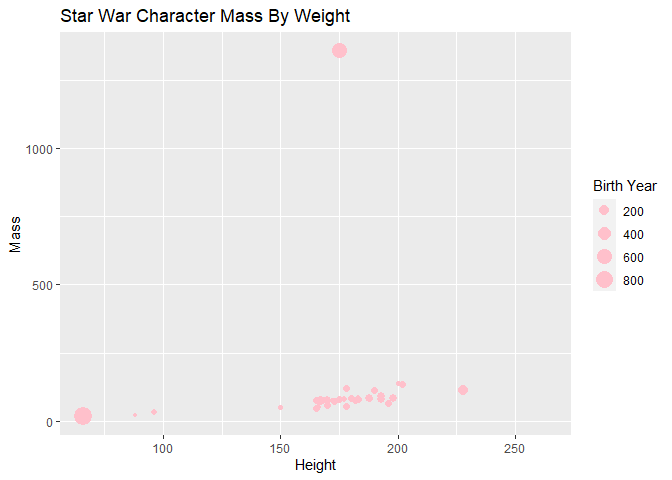
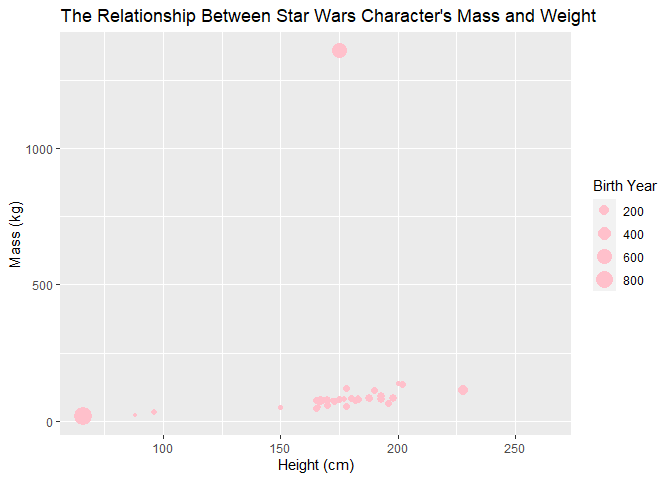
Finished

Changed region(s): [[0.0938, 0.0, 0.9062, 0.0625], [0.4062, 0.9375, 0.5312, 1.0], [0.0, 0.4062, 0.0312, 0.5625]]

diff --git a/starwars.md b/starwars.md
@@ -44,9 +44,9 @@ ggplot(starwars,
        aes(x = height, y = mass, color = gender, size = birth_year)) +
   geom_point(color = "pink") +
   labs(
-    title = "Star War Character Mass By Weight",
-    x = "Height", 
-    y = "Mass",
+    title = "The Relationship Between Star Wars Character's Mass and Weight",
+    x = "Height (cm)", 
+    y = "Mass (kg)",
     size = "Birth Year"
     )
 ```
@@ -65,16 +65,76 @@ or remove the `eval` option altogether since it’s set to `TRUE` by
 default.)
 
 ``` r
-ggplot(starwars, aes(___)) +
-  geom___
+ggplot(starwars, aes(y = eye_color)) +
+  geom_bar()+
+  labs(
+    title = "Star Wars Characters Eye Color Distribution",
+    x = "Frequency",
+    y = "Height (cm)"
+  )
 ```
+
+![](starwars_files/figure-gfm/barplot-1.png)<!-- -->
 
 ### Pick a single numerical variable and make a histogram of it.
 
 (This time no starter code is provided, you’re on your own!)
 
+``` r
+ggplot(starwars, aes(height)) +
+  geom_histogram(binwidth = 10)+
+  labs(
+    title = "Star Wars Character Heights",
+    x = "Height (cm)",
+    y = "Frequency"
+  )
+```
+
+    ## Warning: Removed 6 rows containing non-finite values (stat_bin).
+
+![](starwars_files/figure-gfm/histogram-1.png)<!-- -->
+
 ### Pick a numerical variable and a categorical variable and make a visualisation (you pick the type!) to visualise the relationship between the two variables. Along with your code and output, provide an interpretation of the visualisation.
 
-### Pick two categorical variables and make a visualisation to visualise the relationship between the two variables. Along with your code and output, provide an interpretation of the visualisation.
+``` r
+ggplot(starwars, aes(x = height, fill = gender)) +
+  geom_histogram(binwidth = 10, alpha = 0.5)+
+  labs(
+    title = "The Relationship Star Wars Character Height and Gender",
+    x = "Height (cm)",
+    y = "Frequency"
+  )
+```
+
+    ## Warning: Removed 6 rows containing non-finite values (stat_bin).
+
+![](starwars_files/figure-gfm/num-cat-1.png)<!-- -->
+
+Among taller characters in Star Wars, masculine characters are more
+represented than feminine characters. \### Pick two categorical
+variables and make a visualisation to visualise the relationship between
+the two variables. Along with your code and output, provide an
+interpretation of the visualisation.
+
+``` r
+ggplot(starwars, aes(x = gender, fill = homeworld)) +
+  geom_bar(position = "fill", alpha = 0.5)
+```
+
+![](starwars_files/figure-gfm/cat-cat-1.png)<!-- -->
 
 ### Pick two numerical variables and two categorical variables and make a visualisation that incorportes all of them and provide an interpretation with your answer.
+
+``` r
+ggplot(starwars, 
+       mapping = aes(x = height,
+                     y = mass,
+                     color = species,
+                     shape = gender)) +
+  geom_point()+
+  facet_grid(~gender)
+```
+
+    ## Warning: Removed 29 rows containing missing values (geom_point).
+
+![](starwars_files/figure-gfm/multi-1.png)<!-- -->
